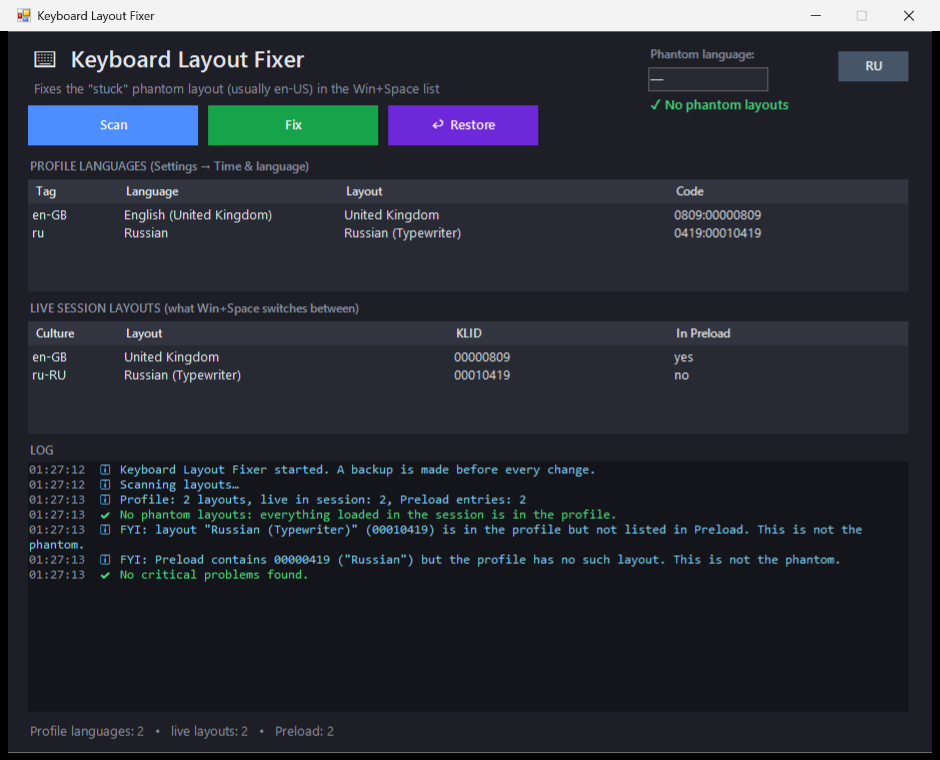
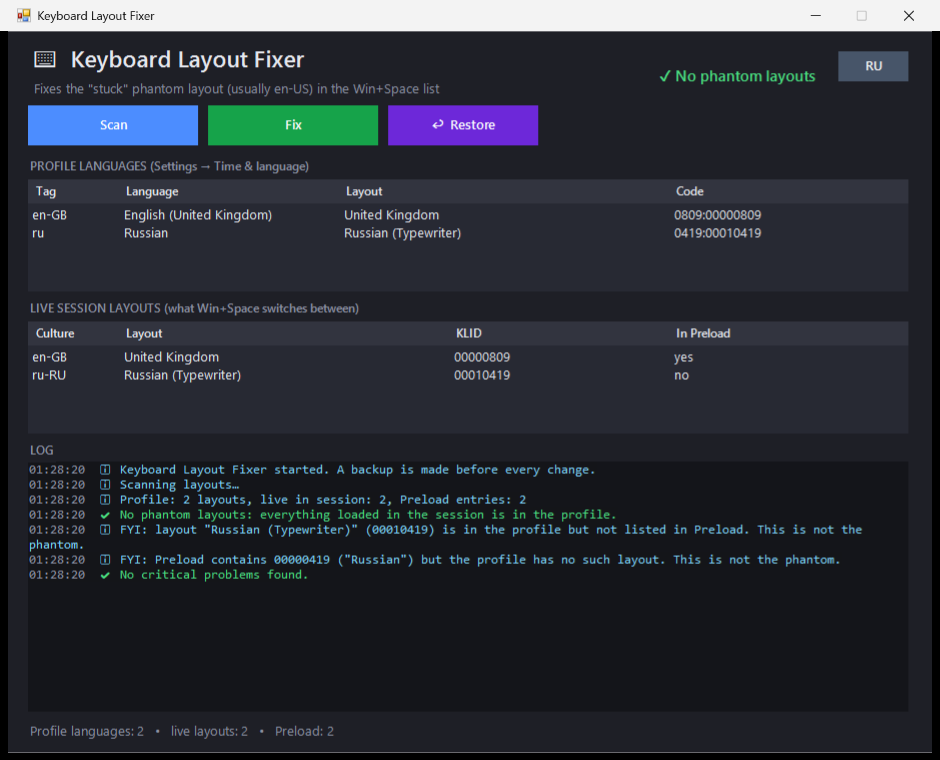
Replace the language field with a single phantom status in the header

Changed region(s): [[0.6787, 0.0605, 0.8638, 0.1513], [0.0617, 0.6053, 0.0926, 0.6961], [0.0617, 0.7263, 0.0926, 0.7566]]

diff --git a/README.md b/README.md
@@ -20,7 +20,7 @@ A layout that is loaded in the session but missing from the profile is a *phanto
 
 ## What the tool does
 
-- **Scan** — shows all three lists, flags the phantom in red (any language, not just en-US) and fills in its language tag.
+- **Scan** — shows all three lists, flags the phantom in red (any language, not just en-US) and shows it in the header, or a green *No phantom layouts* when the session is clean.
 - **Fix** — backs up your language list, temporarily adds the detected phantom language (usually `en-US`, but any language works) so Windows turns the phantom into a real entry, removes it, verifies the result (retrying if Windows re-adds an empty entry).
 - **Restore** — puts the language list back from the last backup (`backups\*.json`).
 - **RU / EN** — switches the interface language (default follows your Windows UI language).
